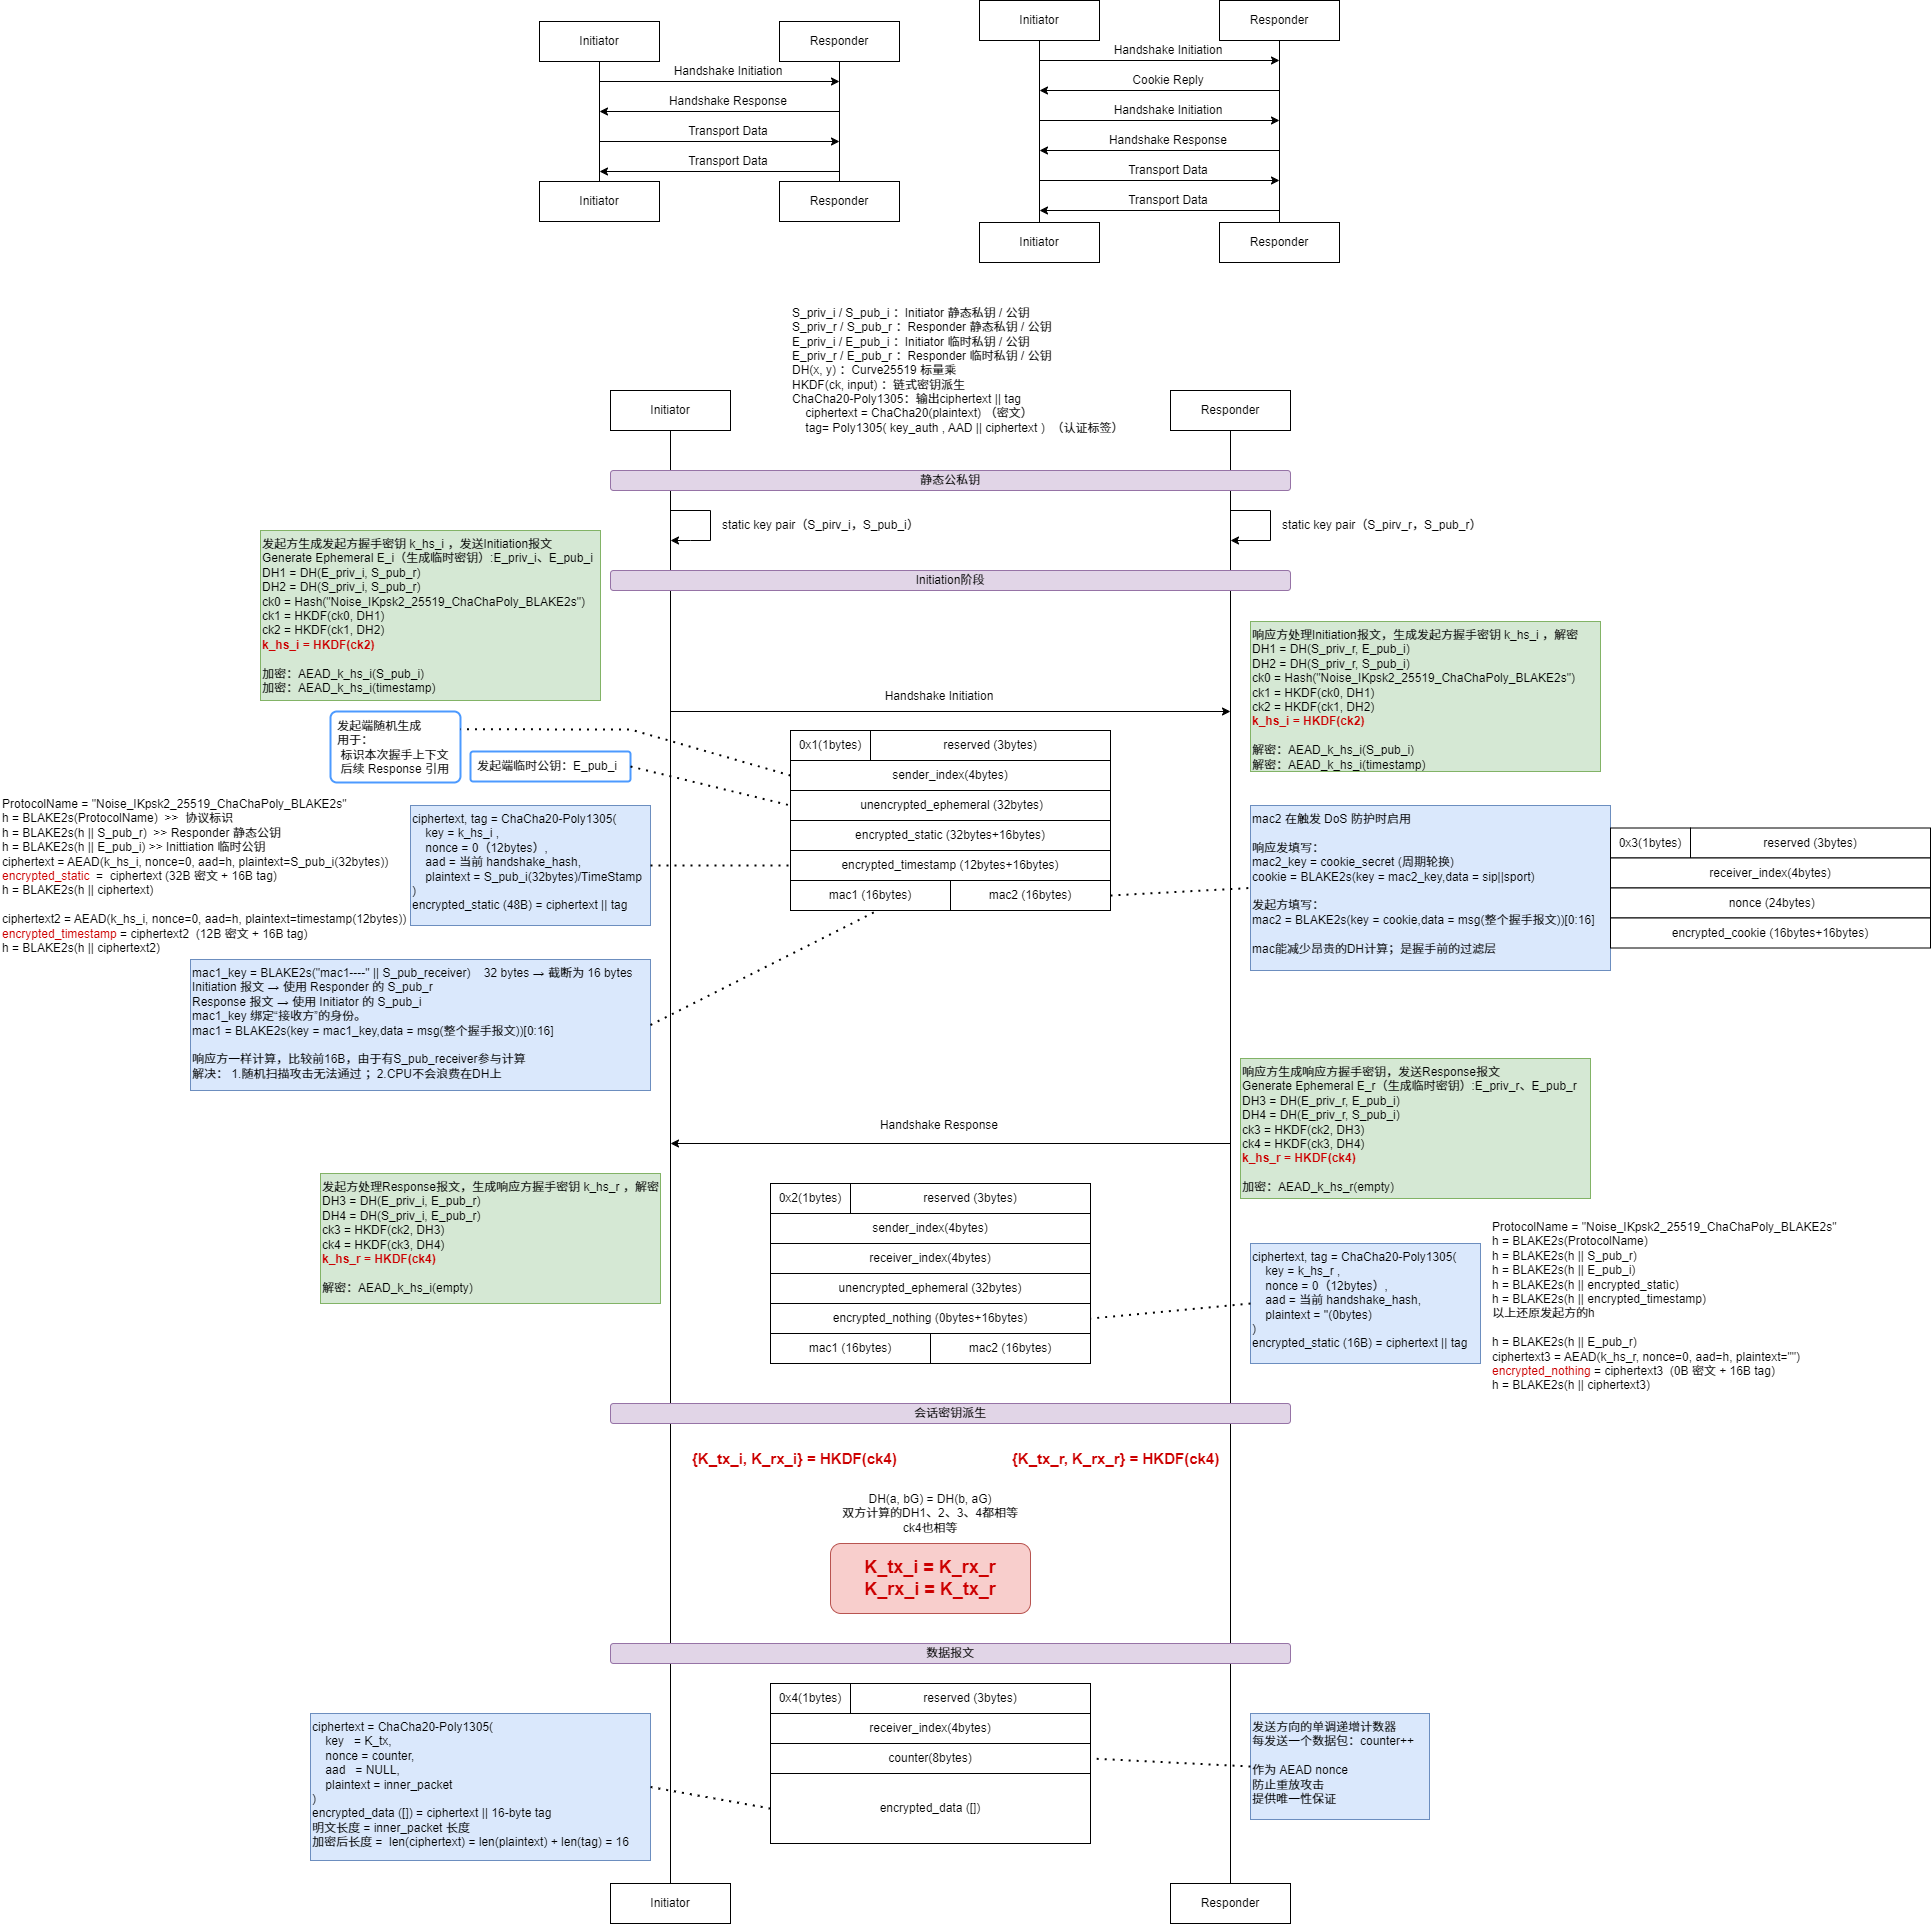
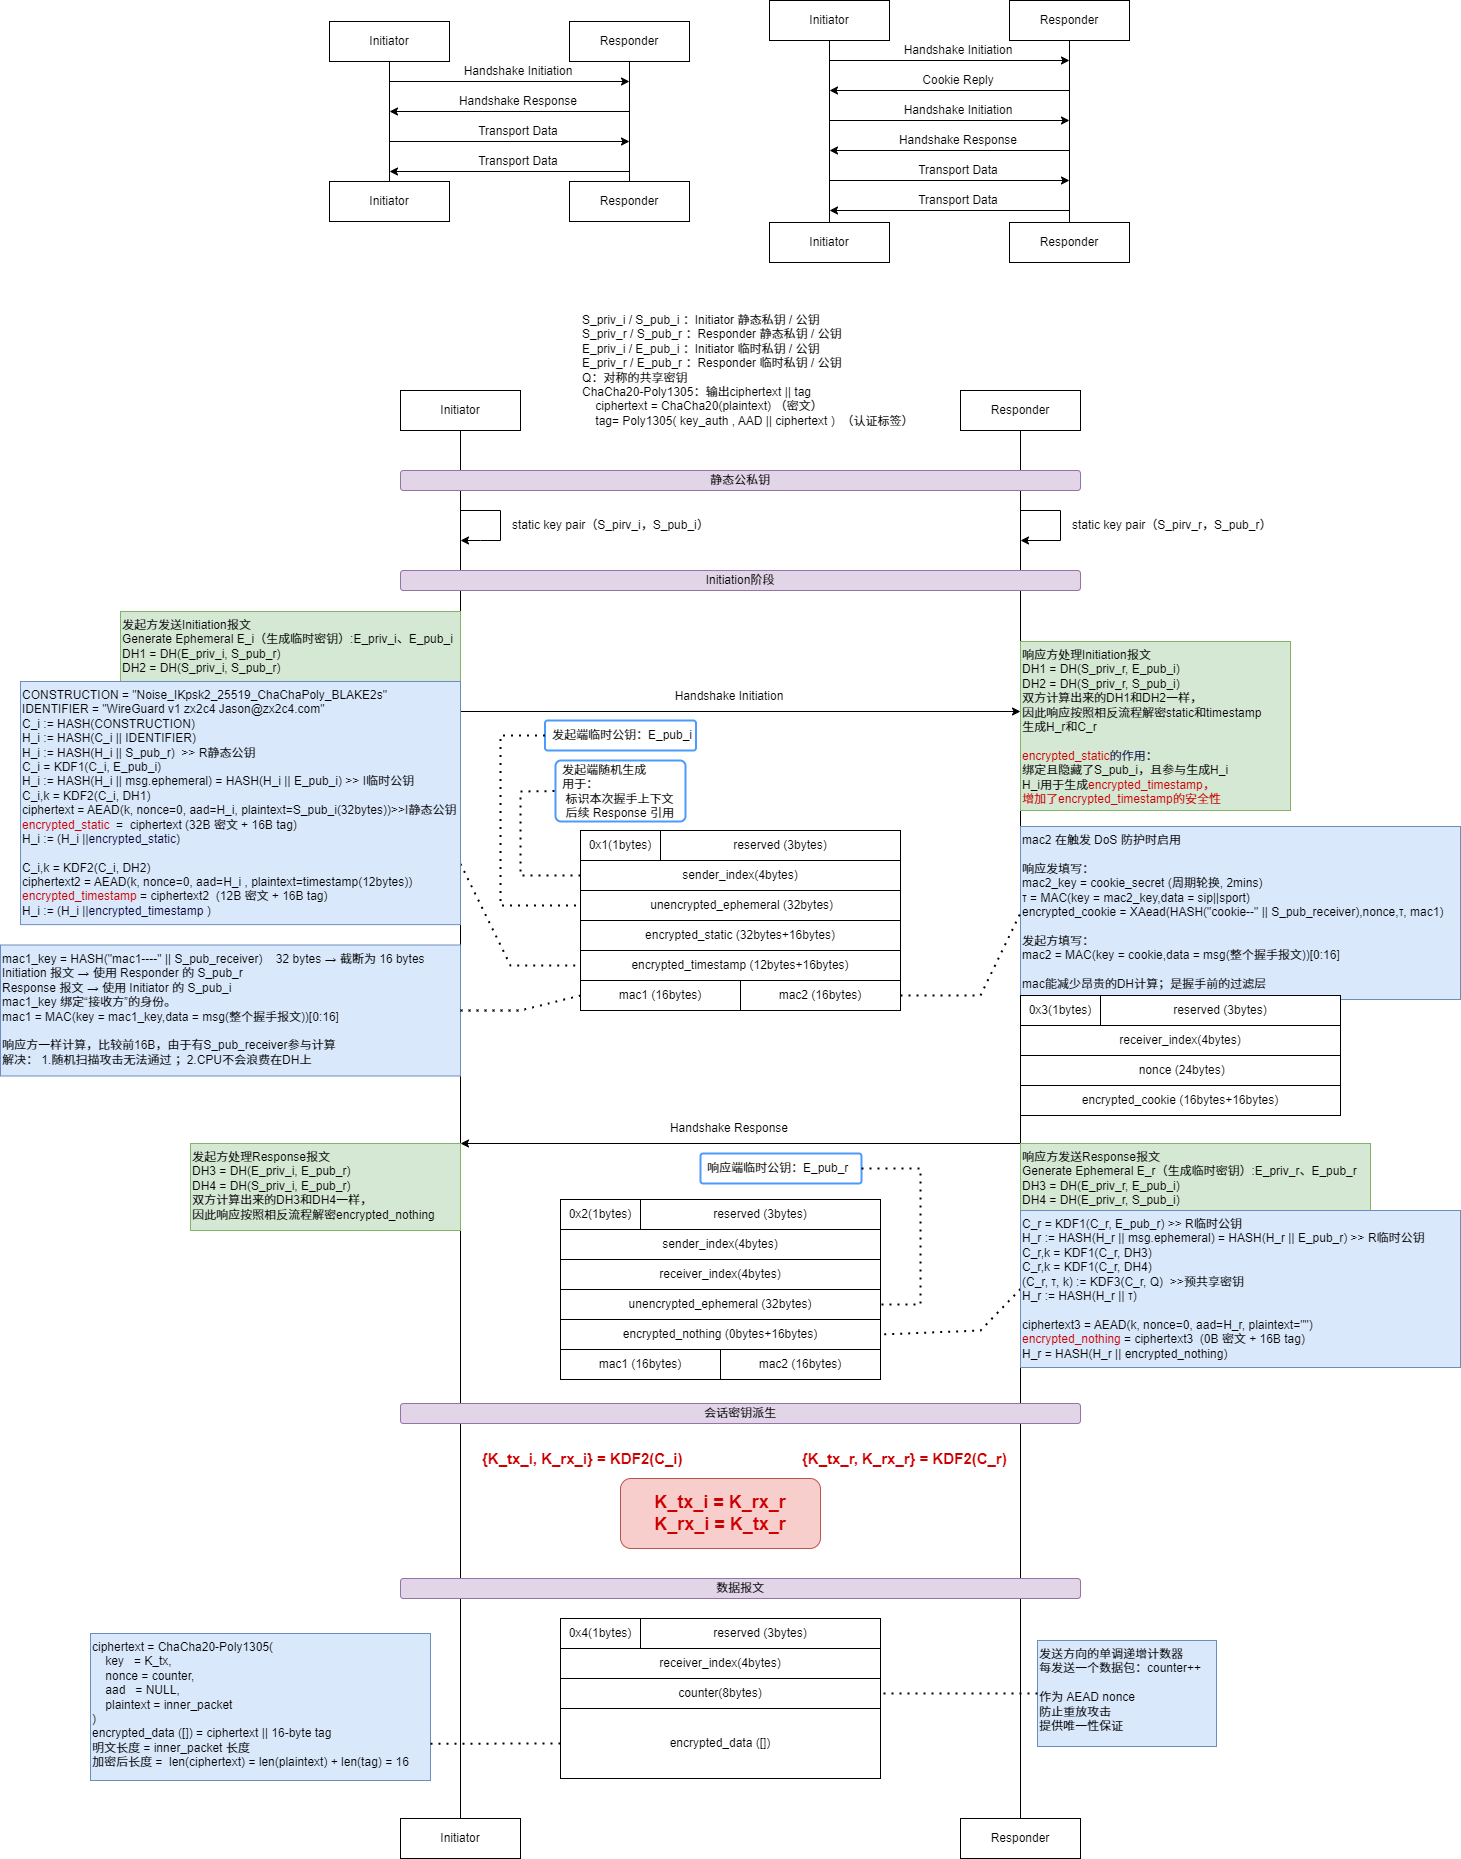
Document WireGuard handshake and update diagram
Rewrite the WireGuard handshake section to use explicit CONSTRUCTION/C_i and H_i/H_r notation, split Initiation and Response steps, and clarify encrypted_static/encrypted_timestamp/encrypted_nothing handling and MAC2 (cookie) logic. Update handshake binding list to include static/ephemeral fields and tweak KDF/key derivation wording. Adjust draw.io diagram layout and text to match the revised protocol description and regenerate the PNG asset.

Changed region(s): [[0.0, 0.0, 1.0, 1.0], [0.2464, 0.0, 0.462, 0.1248], [0.2772, 0.0, 0.308, 0.0312]]

diff --git a/_posts/2026-02-12-Wireguard.md b/_posts/2026-02-12-Wireguard.md
@@ -98,22 +98,43 @@ ck4 = HKDF(ck3, DH4)
 
 ### h（handshake_hash）的作用
 ```
-ProtocolName = "Noise_IKpsk2_25519_ChaChaPoly_BLAKE2s"
-h = BLAKE2s(ProtocolName)  >>  协议标识
-h = BLAKE2s(h || S_pub_r)  >> Responder 静态公钥
-h = BLAKE2s(h || E_pub_i) >> Inittiation 临时公钥
-ciphertext = AEAD(k_hs_i, nonce=0, aad=h, plaintext=S_pub_i(32bytes))
+====Handshake Initiation报文
+CONSTRUCTION = "Noise_IKpsk2_25519_ChaChaPoly_BLAKE2s"
+IDENTIFIER = "WireGuard v1 zx2c4 Jason@zx2c4.com"
+C_i := HASH(CONSTRUCTION)
+H_i := HASH(C_i || IDENTIFIER)
+H_i := HASH(H_i || S_pub_r)  >> R静态公钥
+C_i = KDF1(C_i, E_pub_i)
+H_i := HASH(H_i || msg.ephemeral) = HASH(H_i || E_pub_i) >> I临时公钥
+C_i,k = KDF2(C_i, DH1)
+ciphertext = AEAD(k, nonce=0, aad=H_i, plaintext=S_pub_i(32bytes))>>I静态公钥
 encrypted_static  =  ciphertext (32B 密文 + 16B tag)
-h = BLAKE2s(h || ciphertext)
-ciphertext2 = AEAD(k_hs_i, nonce=0, aad=h, plaintext=timestamp(12bytes))
+H_i := (H_i ||encrypted_static)
+
+C_i,k = KDF2(C_i, DH2)
+ciphertext2 = AEAD(k, nonce=0, aad=H_i , plaintext=timestamp(12bytes))
 encrypted_timestamp = ciphertext2  (12B 密文 + 16B tag)
-h = BLAKE2s(h || ciphertext2)
+H_i := (H_i ||encrypted_timestamp )
+
+====Handshake Response报文
+C_r = KDF1(C_r, E_pub_r) >> R临时公钥
+H_r := HASH(H_r || msg.ephemeral) = HASH(H_r || E_pub_r) >> R临时公钥
+C_r,k = KDF1(C_r, DH3)
+C_r,k = KDF1(C_r, DH4)
+(C_r, τ, k) := KDF3(C_r, Q)  >>预共享密钥
+H_r := HASH(H_r || τ)
+
+ciphertext3 = AEAD(k, nonce=0, aad=H_r, plaintext="")
+encrypted_nothing = ciphertext3  (0B 密文 + 16B tag)
+H_r = HASH(H_r || encrypted_nothing)
+
 ```
 #### 绑定握手上下文
-* 绑定 E_pub_i
+* 绑定 E_pub_i S_pub_r S_pub_i
 * 绑定 E_pub_r
 * 绑定 encrypted_static
 * 绑定 encrypted_timestamp
+* 绑定 encrypted_nothing
 
 防止：
 * 报文重排序
@@ -156,9 +177,13 @@ mac1 = BLAKE2s(key = BLAKE2s("mac1----" || S_pub_receiver) ,data = msg(整个握
 
 #### MAC2（cookie）
 ```
-mac2_key = cookie_secret (周期轮换)
-cookie = BLAKE2s(key = mac2_key,data = sip||sport)
-mac2 = BLAKE2s(key = cookie,data = msg(整个握手报文))[0:16]
+Responder：
+mac2_key = cookie_secret (周期轮换, 2mins)
+τ = MAC(key = mac2_key,data = sip||sport)
+encrypted_cookie = XAead(HASH("cookie--" || S_pub_receiver),nonce,τ, mac1) 
+
+Initiator：
+mac2 = MAC(key = cookie,data = msg(整个握手报文))[0:16]
 ```
 用于：
 * 抗 DoS
